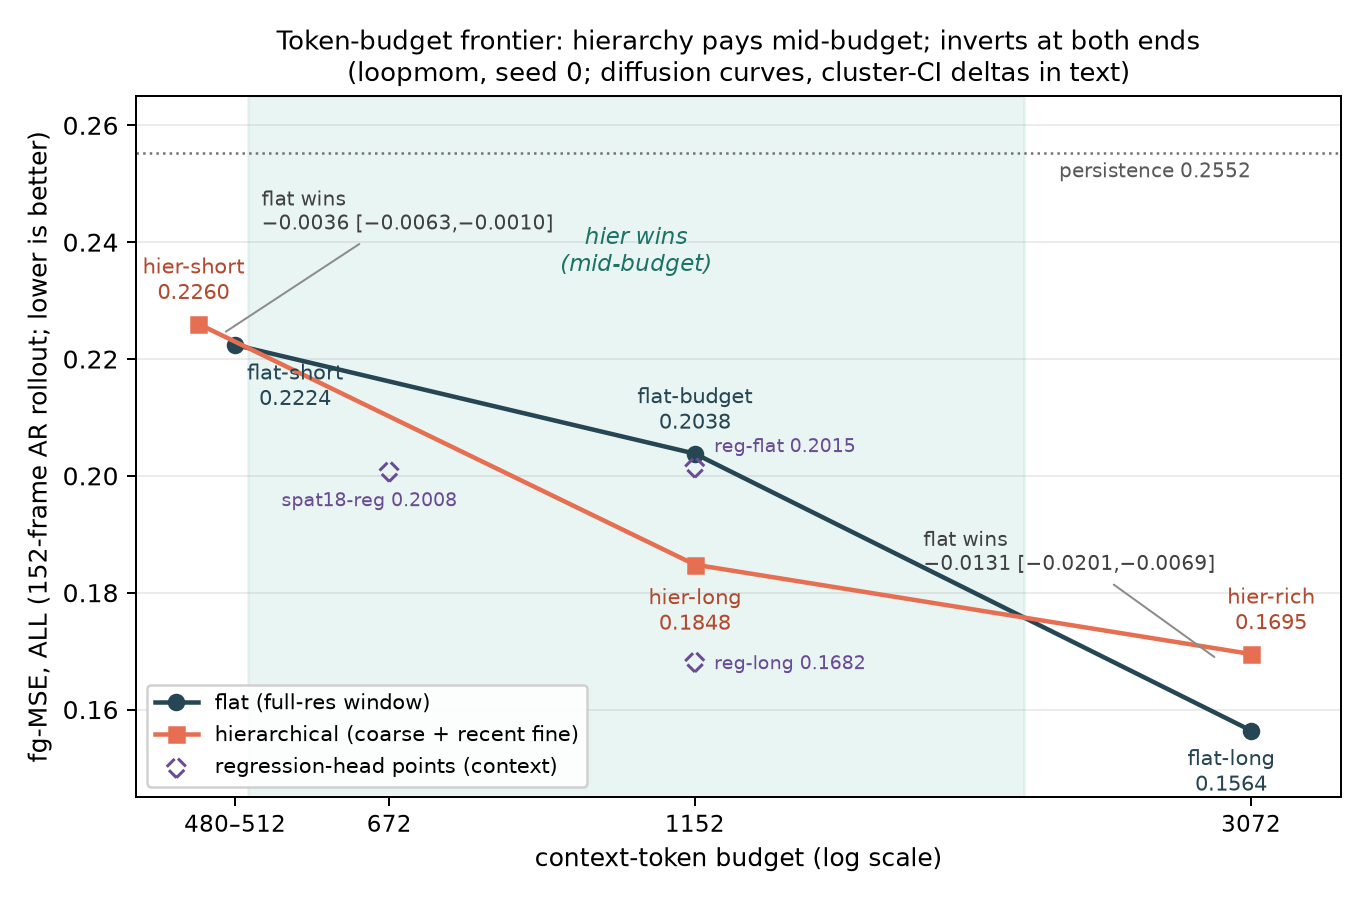
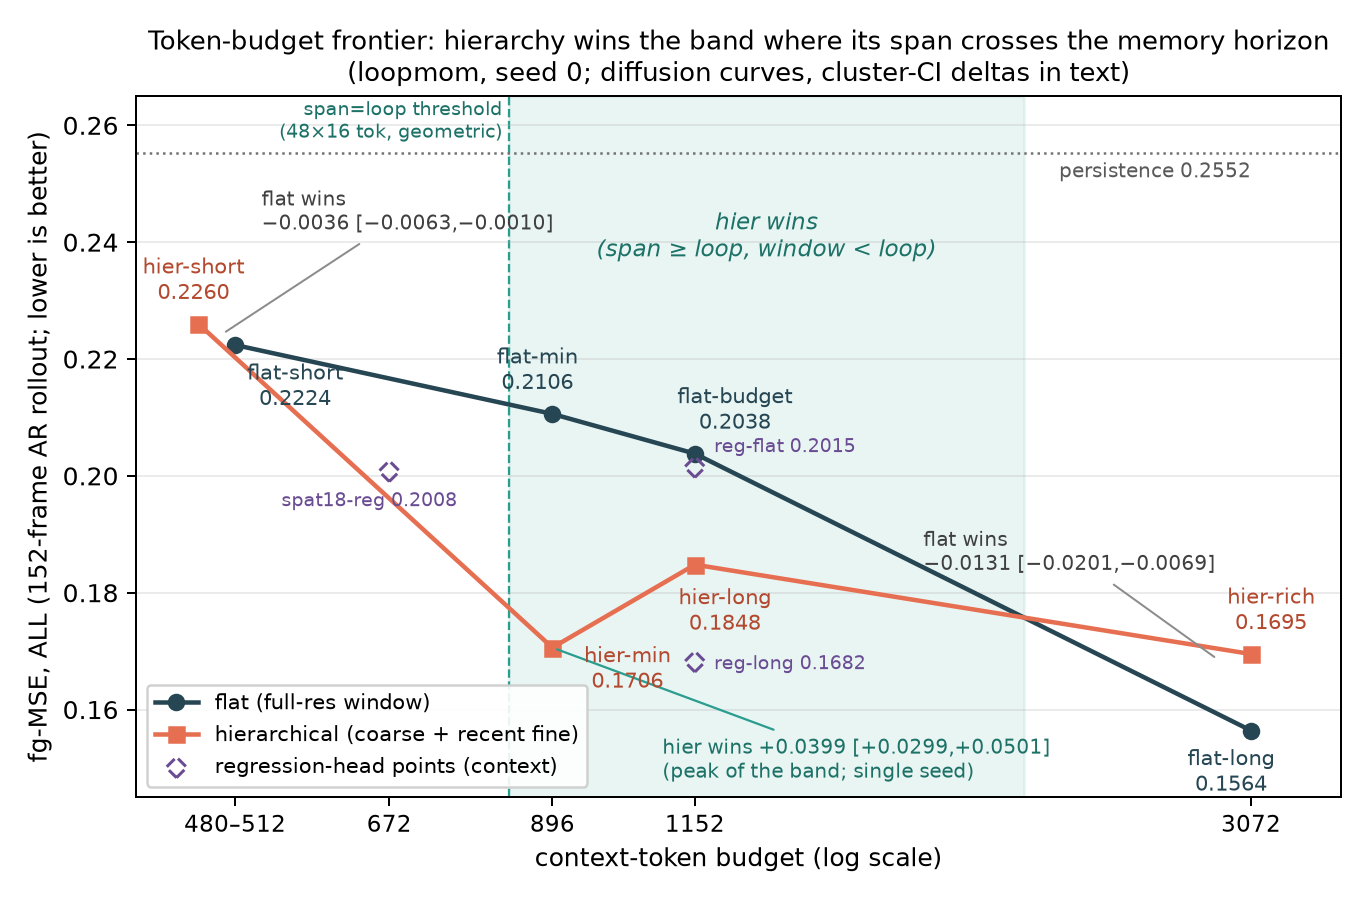
FRONTIER LOWER EDGE MEASURED: hier-min WINS EVERY CELL at 896 tok (+0.0399 [+0.0299,+0.0501], campaign's largest delta) — win band [896,~2059) with lower edge exactly at the geometric span-threshold prediction
Pre-registered PRIMARY branch confirmed, stronger than predicted: effect PEAKS at the lower
edge; dt-gates show the reach signature (dt<=48 HARD +0.0750 WIN; dt97-192 beyond-span null);
fine-context-floor alternative refuted at w_f=2 (hier-min 0.1706 @896 even measured below
hier-long 0.1848 @1152 — report-only, single seed). Filled: SPATIAL_FACTORIAL MEASURED block,
CH4 lower-edge paragraph + table rows, Rozdil4 Table 4.6a row + edge-measured band reading,
VYSNOVKY result-7 clause, fig9 regenerated (4-point curves, shaded band, threshold line).
Disclosure everywhere: seed 0 only, seed-1 replication queued behind TaxiBJ per author priority.

diff --git a/scripts/make_fig9_frontier.py b/scripts/make_fig9_frontier.py
@@ -1,7 +1,9 @@
 """fig9_frontier.png — token-budget frontier, operating point A (loopmom, seed 0).
 
 Data: Table 4.2 + frontier completion (logs_rhcp/frontier_{top,bottom}.log,
-docs/SPATIAL_FACTORIAL.md FRONTIER MEASURED 2026-07-07). fg-MSE ALL over 152 AR frames.
+docs/SPATIAL_FACTORIAL.md FRONTIER MEASURED + LOWER EDGE MEASURED 2026-07-07;
+logs_rhcp/frontier_low.log: hier-min 0.1706 / flat-min 0.2106, +0.0399 [+0.0299,+0.0501]).
+fg-MSE ALL over 152 AR frames.
 """
 import numpy as np
 import matplotlib
@@ -10,16 +12,16 @@ matplotlib.use("Agg")
 import matplotlib.pyplot as plt
 
 # (tokens, fg-MSE ALL) — diffusion-head frontier curves
-flat = [(512, 0.2224), (1152, 0.2038), (3072, 0.1564)]
-hier = [(480, 0.2260), (1152, 0.1848), (3072, 0.1695)]
+flat = [(512, 0.2224), (896, 0.2106), (1152, 0.2038), (3072, 0.1564)]
+hier = [(480, 0.2260), (896, 0.1706), (1152, 0.1848), (3072, 0.1695)]
 # regression-head reference points (context, dashed/open markers)
 reg_pts = [
     ("spat18-reg", 672, 0.2008),
     ("reg-flat", 1152, 0.2015),
     ("reg-long", 1152, 0.1682),
 ]
-flat_names = ["flat-short", "flat-budget", "flat-long"]
-hier_names = ["hier-short", "hier-long", "hier-rich"]
+flat_names = ["flat-short", "flat-min", "flat-budget", "flat-long"]
+hier_names = ["hier-short", "hier-min", "hier-long", "hier-rich"]
 PERSIST = 0.2552
 
 fx, fy = np.array([p[0] for p in flat], float), np.array([p[1] for p in flat], float)
@@ -39,14 +41,17 @@ for i in idx:
 
 fig, ax = plt.subplots(figsize=(7.6, 5.0))
 
-# mid-budget win region (between the two crossings)
-if len(crossings) >= 2:
-    ax.axvspan(crossings[0], crossings[1], color="#2a9d8f", alpha=0.10, zorder=0)
-    ax.text(
-        np.sqrt(crossings[0] * crossings[1]), 0.243,
-        "hier wins\n(mid-budget)", ha="center", va="top", fontsize=9,
-        color="#1d7268", style="italic",
-    )
+# win band: lower edge = geometric span-threshold (48*16 coarse tok + minimal fine ~ 830;
+# measured bound: flat wins at 512, hier wins at 896); upper edge = measured curve crossing.
+lo_edge = 830.0
+hi_edge = crossings[-1] if crossings else 3072.0
+ax.axvspan(lo_edge, hi_edge, color="#2a9d8f", alpha=0.10, zorder=0)
+ax.axvline(lo_edge, color="#2a9d8f", lw=0.9, ls="--", zorder=1)
+ax.text(np.sqrt(lo_edge * hi_edge), 0.2455,
+        "hier wins\n(span ≥ loop, window < loop)", ha="center", va="top", fontsize=9,
+        color="#1d7268", style="italic")
+ax.text(820, 0.2645, "span=loop threshold\n(48×16 tok, geometric)", ha="right", va="top",
+        fontsize=7.5, color="#1d7268")
 
 ax.axhline(PERSIST, color="0.45", lw=1.0, ls=":", zorder=1)
 ax.text(3072, PERSIST - 0.0015, "persistence 0.2552", ha="right", va="top",
@@ -65,11 +70,11 @@ ax.scatter(rx, ry, marker="D", s=34, facecolors="none", edgecolors="#6a4c93",
 
 # point labels
 lab_kw = dict(fontsize=8.5, zorder=4)
-offs_flat = [(24, -24), (0, 10), (-8, -24)]
+offs_flat = [(24, -24), (-6, 10), (16, 10), (-8, -24)]
 for (x, y), name, (dx, dy) in zip(flat, flat_names, offs_flat):
     ax.annotate(f"{name}\n{y:.4f}", (x, y), textcoords="offset points",
                 xytext=(dx, dy), ha="center", color="#264653", **lab_kw)
-offs_hier = [(-2, 10), (0, -26), (8, 10)]
+offs_hier = [(-2, 10), (30, -16), (12, -26), (8, 10)]
 for (x, y), name, (dx, dy) in zip(hier, hier_names, offs_hier):
     ax.annotate(f"{name}\n{y:.4f}", (x, y), textcoords="offset points",
                 xytext=(dx, dy), ha="center", color="#b3492f", **lab_kw)
@@ -79,6 +84,10 @@ for (name, x, y), (dx, dy) in zip(reg_pts, reg_offs):
                 xytext=(dx, dy), ha="center", fontsize=7.5, color="#6a4c93", zorder=4)
 
 # end-inversion callouts
+ax.annotate("hier wins +0.0399 [+0.0299,+0.0501]\n(peak of the band; single seed)", (896, 0.1706),
+            textcoords="offset points", xytext=(44, -52), ha="left", fontsize=8,
+            color="#1d7268",
+            arrowprops=dict(arrowstyle="-", color="#2a9d8f", lw=0.9))
 ax.annotate("flat wins\n−0.0036 [−0.0063,−0.0010]", (500, 0.2242),
             textcoords="offset points", xytext=(16, 42), ha="left", fontsize=8,
             color="0.25",
@@ -89,14 +98,14 @@ ax.annotate("flat wins\n−0.0131 [−0.0201,−0.0069]", (2900, 0.1685),
             arrowprops=dict(arrowstyle="-", color="0.55", lw=0.8))
 
 ax.set_xscale("log")
-ax.set_xticks([512, 672, 1152, 3072])
-ax.set_xticklabels(["480–512", "672", "1152", "3072"], fontsize=9)
+ax.set_xticks([512, 672, 896, 1152, 3072])
+ax.set_xticklabels(["480–512", "672", "896", "1152", "3072"], fontsize=9)
 ax.minorticks_off()
 ax.set_xlim(430, 3600)
 ax.set_ylim(0.145, 0.265)
 ax.set_xlabel("context-token budget (log scale)")
 ax.set_ylabel("fg-MSE, ALL (152-frame AR rollout; lower is better)")
-ax.set_title("Token-budget frontier: hierarchy pays mid-budget; inverts at both ends\n"
+ax.set_title("Token-budget frontier: hierarchy wins the band where its span crosses the memory horizon\n"
              "(loopmom, seed 0; diffusion curves, cluster-CI deltas in text)",
              fontsize=10.5)
 ax.legend(loc="lower left", fontsize=8.5, framealpha=0.9)

diff --git a/docs/draft/CH4_RESULTS.md b/docs/draft/CH4_RESULTS.md
@@ -588,15 +588,20 @@ sharp 0.0996 (3,072 tok; B8×60k); hier-short 0.2260 / 0.0392 (480 tok) — both
 |---|---|---:|---:|---:|---|
 | top, new arm | hier-rich (48c+36f, 3072 tok, B8×60k) | 0.1695 | 0.0898 | — | — |
 | bottom, new arm | flat-short (8f, 512 tok, B16×30k) | 0.2224 | 0.0432 | — | — |
+| lower edge, new arm | hier-min (48c+2f, 896 tok, B16×30k) | 0.1706 | 0.0861 | — | — |
+| lower edge, new arm | flat-min (14f, 896 tok, B16×30k) | 0.2106 | 0.0516 | — | — |
 | frontier top | flat-long vs hier-rich (equal 3,072 tok, equal regime) | — | — | −0.0131 | [−0.0201, −0.0069] **flat WINS** |
 | frontier bottom | flat-short vs hier-short (512 vs 480 tok) | — | — | −0.0036 | [−0.0063, −0.0010] **flat WINS** |
+| frontier lower edge | flat-min vs hier-min (equal 896 tok, equal regime) | — | — | **+0.0399** | [+0.0299, +0.0501] **HIER WINS** (every bin; single seed, replication queued) |
 
-[FIG `docs/figures/fig9_frontier.png`: quality-vs-token-budget (log-x), two measured curves —
-hier (480 → 1152 → 3072: hier-short 0.2260, hier-long 0.1848, hier-rich 0.1695) and flat
-(512 → 1152 → 3072: flat-short 0.2224, flat-budget 0.2038, flat-long 0.1564) — measured shape:
-the curves cross twice; hierarchy wins only the mid-budget region around 1,152 tokens. Caption:
-the token-budget frontier — hierarchy pays mid-budget and inverts at both ends; the flat curve
-wins below the memory-relevance threshold and at window saturation.]
+[FIG `docs/figures/fig9_frontier.png`: quality-vs-token-budget (log-x), two measured 4-point
+curves — hier (480 → 896 → 1152 → 3072: 0.2260, **0.1706**, 0.1848, 0.1695) and flat
+(512 → 896 → 1152 → 3072: 0.2224, 0.2106, 0.2038, 0.1564) — measured shape: hierarchy wins the
+band [896, ≈2059) tokens (upper crossing interpolated from the curves), with the effect PEAKING
+at the lower edge, which sits exactly at the geometric span-threshold prediction (48×16 coarse
+tokens + minimal fine tail ≈ 830–896); flat wins below the threshold (512) and at window
+saturation (3072). Caption: the token-budget frontier — hierarchy wins exactly the band where
+its coarse span crosses the memory horizon while flat's window does not.]
 
 **Reading (measured resolution of the pre-registered dual branch — a third outcome; reported
 under the no-soft-reads rule, the §4.5.4 default-to-FAIL discipline applied to wording).**
@@ -618,11 +623,40 @@ budget. Sharpness, same discipline: hier-rich 0.0898 vs flat-long 0.0996 and hie
 vs flat-short 0.0432 — the window (token budget spent on frames) drives sharpness, and
 hierarchy does NOT retain sharpness better at matched saturation.
 
+**Lower edge (measured 2026-07-07; pre-registered the same morning, before the runs, in
+`docs/SPATIAL_FACTORIAL.md` FRONTIER LOWER EDGE — the primary branch measured).** The band
+theory makes a quantitative prediction: the win should switch on at the cheapest budget whose
+coarse span covers the ~48-frame loop, i.e. 48×16 coarse tokens plus a minimal fine tail ≈ 896
+tokens — a budget at which flat affords only a 14-frame window. The measured pair confirms it,
+and more strongly than predicted: **hier-min (48c+2f) beats flat-min (14f) in every horizon ×
+hardness cell**, ALL **+0.0399 [+0.0299, +0.0501]** — the largest hierarchy delta of the
+campaign (vs +0.0189/+0.0354 at 1,152) — with the dt-stratified gates showing the reach
+signature exactly where the mechanism lives (dt ≤ 48 HARD +0.0750 WIN; dt 49–96 HARD +0.0282
+WIN; dt 97–192, beyond the 48-frame span, null). Two structural readings follow. First, the
+win band's **lower edge is at the geometric prediction**: flat wins at 512, hierarchy wins at
+896 — the switch-on is bracketed to (512, 896] and coincides with the span-threshold arithmetic
+written before the run. Second, the **effect peaks at the lower edge**: moving down-budget
+inside the band, flat's window falls away from the horizon faster than the hierarchy's
+abstraction cost grows, so the efficiency argument is strongest exactly where budgets are
+tightest — hier-min at 896 tokens (0.1706) reaches a quality that the flat curve only attains
+between 1,152 and 3,072 tokens (interpolated ≈2.3–3× the budget; the measured upper crossing of
+the curves sits at ≈2,059 tokens). One measured arm ordering is reported without a claim
+(single seed): hier-min at 896 tokens (0.1706) also measured *better than hier-long at 1,152*
+(0.1848), i.e. the pre-registered "fine-context floor" alternative was refuted at w_f = 2 —
+fewer recent-fine frames did not hurt. Disclosures: this pair is seed-0 only; per the binding
+two-seed rule a seed-1 replication is queued (behind the generalization campaign per the
+author's GPU priority), and no headline uses the 896-point without it; the 1,152-token headline
+remains the two-seed anchor. The final claim form is unchanged but now edge-measured: hierarchy
+wins **the band of budgets where its span crosses the memory horizon and flat's window does
+not** — [896, ≈2,059) tokens as measured on this testbed — and inverts outside it.
+
 *Provenance (this section only): design/arms `docs/SPATIAL_FACTORIAL.md` FRONTIER COMPLETION +
-FRONTIER MEASURED (2026-07-07) + `docs/HANDOFF_2026-07-06.md` §6 (launch 08:54:46 2026-07-06;
-chain: hier-rich 60k → flat-short 30k → compare flat-long,hier-rich → compare
+FRONTIER MEASURED (2026-07-07) + FRONTIER LOWER EDGE (pre-reg + MEASURED same day, commit
+441076e; chain marker FRONTIER_LOW_DONE) + `docs/HANDOFF_2026-07-06.md` §6 (launch 08:54:46
+2026-07-06; chain: hier-rich 60k → flat-short 30k → compare flat-long,hier-rich → compare
 flat-short,hier-short; FRONTIER_DONE sentinel); arm tuples `hvp_rev/rhvd.py` (hier-rich
-(48,36,diff), flat-short (0,8,diff) + reg twins); per-bin rows `logs_rhcp/frontier_top.log` /
-`frontier_bottom.log`; measured partner rows from Table 4.2 (`logs_rhcp/compare_clustered.log`).
-On the integration pass: move the two new rows into Table 4.2 and renumber this section to
-§4.3.6 (branch already resolved above).*
+(48,36,diff), flat-short (0,8,diff) + reg twins; hier-min (48,2,diff), flat-min (0,14,diff));
+per-bin rows `logs_rhcp/frontier_top.log` / `frontier_bottom.log` / `frontier_low.log`; measured
+partner rows from Table 4.2 (`logs_rhcp/compare_clustered.log`). On the integration pass: move
+the new rows into Table 4.2 and renumber this section to §4.3.6 (branch already resolved
+above).*

diff --git a/docs/dissertation/rewrite/05_ROZDIL4.md b/docs/dissertation/rewrite/05_ROZDIL4.md
@@ -697,20 +697,24 @@ tests the frontier's bottom." [UA-PASS: «фронтир якість–бюдж
 **Table 4.6a — Token-budget frontier of operating point A (letter-suffixed to avoid renumbering
 the audited table register; final numbering at typeset). Measured anchor rows from Tables
 4.5/4.6; frontier-completion cells measured 2026-07-07 (`logs_rhcp/frontier_top.log`,
-`logs_rhcp/frontier_bottom.log`).**
+`logs_rhcp/frontier_bottom.log`); lower-edge pair measured 2026-07-07
+(`logs_rhcp/frontier_low.log`, pre-registered the same morning before the runs).**
 
 | Token budget | Flat arm | ALL fg-MSE | Hierarchical arm | ALL fg-MSE | Paired Δ (flat − hier), cluster CI |
 |---|---|---:|---|---:|---|
 | ≈3,072 | flat-long | 0.1564 | hier-rich | 0.1695 | **−0.0131 [−0.0201, −0.0069]** (flat wins) |
 | 1,152 | flat-budget | 0.2038 | hier-long | 0.1848 | +0.0189 [+0.0121, +0.0264] (Table 4.6) |
+| **896** | flat-min (14 f) | 0.2106 | hier-min (48c+2f) | **0.1706** | **+0.0399 [+0.0299, +0.0501]** (hier wins EVERY cell; single seed, replication queued) |
 | ≈480–512 | flat-short | 0.2224 | hier-short | 0.2260 | **−0.0036 [−0.0063, −0.0010]** (flat wins) |
 
 **[FIG 4-x — token-budget frontier]**
-*Content:* ALL fg-MSE versus context-token budget at operating point A, one curve per family
-(flat: flat-short → flat-budget → flat-long; hierarchical: hier-short → hier-long → hier-rich),
-with the measured mid-budget win region marked and the persistence floor (0.2552) drawn.
+*Content:* ALL fg-MSE versus context-token budget at operating point A, one 4-point curve per
+family (flat: flat-short → flat-min → flat-budget → flat-long; hierarchical: hier-short →
+hier-min → hier-long → hier-rich), with the measured win band [896, ≈2,059) shaded, the
+geometric span-threshold (48×16 tokens) drawn as the band's lower edge, and the persistence
+floor (0.2552) drawn.
 *Source:* **`docs/figures/fig9_frontier.png`** (measured; anchors from Tables 4.5/4.6 and the
-frontier-completion runs).
+frontier-completion + lower-edge runs).
 
 The measurement resolved the pre-registered dual branch to a **third outcome, stricter than the
 pre-registered convergence expectation, and reported as measured under the no-soft-reads rule**
@@ -727,13 +731,33 @@ its coarse tokens buy a memory window that (a) exceeds what fine tokens afford a
 at window saturation (48 frames, clip-bounded) coarse slots merely displace full-resolution
 frames, and below the memory-relevance threshold they duplicate it. Sharpness follows the window,
 not the hierarchy: hier-rich 0.0898 versus flat-long 0.0996, hier-short 0.0392 versus flat-short
-0.0432 — at matched saturation the hierarchy does **not** retain sharpness better. The
-matched-budget headline of §4.3.3 (1,152 tokens, two seeds, both heads) is untouched; the §4.3
-efficiency claim takes its final, bounded form: **the hierarchy dominates the token-budget
-frontier exactly where window extension is both possible and valuable** — a bounded,
-dose-response-supported efficiency claim, not dominance at every budget. [UA-PASS: «ієрархія
-домінує на фронтирі токен-бюджету саме там, де розширення вікна є водночас можливим і цінним»;
-«інверсія на обох кінцях фронтиру».]
+0.0432 — at matched saturation the hierarchy does **not** retain sharpness better.
+
+This mechanism reading makes a quantitative prediction, which was pre-registered and then
+measured the same day (the lower-edge row of Table 4.6a): the win must switch on at the cheapest
+budget whose coarse span covers the ≈48-frame loop — 48 × 16 coarse tokens plus a minimal fine
+tail, ≈896 tokens, a budget at which a flat model affords only a 14-frame window. The measured
+pair confirms the prediction, and more strongly than expected: hier-min beats flat-min in
+**every horizon × hardness cell** (overall +0.0399 [+0.0299, +0.0501] — the largest hierarchical
+advantage measured in the campaign), with the visibility-stratified gates showing the reach
+signature exactly where the mechanism operates (dt ≤ 48 HARD +0.0750; dt 49–96 HARD +0.0282;
+dt 97–192, beyond the 48-frame span, null). Two structural conclusions follow. First, the win
+band's **lower edge coincides with the geometric span-threshold arithmetic** written before the
+run: flat wins at 512 tokens, the hierarchy wins at 896, so the switch-on is bracketed to
+(512, 896]. Second, the advantage **peaks at the lower edge**: inside the band, reducing the
+budget removes the flat model's window from the memory horizon faster than the hierarchical
+abstraction cost grows — the efficiency argument is strongest exactly where budgets are
+tightest, and hier-min at 896 tokens (0.1706) reaches a quality the flat curve attains only at
+≈2.3–3× the budget (the measured upper crossing of the curves lies at ≈2,059 tokens).
+Disclosure: the lower-edge pair is single-seed (seed 0); under the binding two-seed rule its
+replication is queued, and no headline statement uses the 896-token point without it — the
+two-seed anchor of the efficiency claim remains the 1,152-token pairing of §4.3.3. The §4.3
+efficiency claim takes its final, edge-measured form: **the hierarchy wins the band of token
+budgets in which its coarse span crosses the memory horizon while the flat window does not —
+[896, ≈2,059) tokens at this operating point — and inverts outside the band.** [UA-PASS:
+«ієрархія виграє смугу токен-бюджетів, у якій її грубий діапазон покриває горизонт пам'яті, тоді
+як пласке вікно — ні»; «нижня межа смуги збігається з геометричним порогом 48×16 токенів»;
+«перевага максимальна на нижній межі смуги».]
 
 ## 4.4 Факторне дослідження просторової абстракції: економічний, залежний від ядра вердикт
 

diff --git a/docs/dissertation/rewrite/06_VYSNOVKY.md b/docs/dissertation/rewrite/06_VYSNOVKY.md
@@ -168,11 +168,16 @@ baseline parity or an additional measured boundary condition]** — together wit
 token-budget frontier completion (hier-rich at 3,072 tokens loses to flat-long, −0.0131
 [−0.0201, −0.0069], at equal budget and training regime; flat-short at 512 beats hier-short,
 −0.0036 [−0.0063, −0.0010] — the frontier inverts at both ends, an outcome stricter than the
-pre-registered convergence-at-saturation expectation and reported as measured), which gives the
-efficiency claim its final, bounded form: hierarchy dominates the token-budget frontier exactly
-where window extension is both possible and valuable — the mid-budget regime where coarse
-tokens buy a memory window that fine tokens cannot afford and that the task rewards — not
-dominance at every budget.
+pre-registered convergence-at-saturation expectation and reported as measured) and the
+**measured lower edge of the win band** (a pre-registered geometric prediction confirmed the
+same day: at 896 tokens — the cheapest budget whose 48-slot coarse span covers the ≈48-frame
+loop, against a flat window of only 14 frames — the hierarchical arm wins every horizon ×
+hardness cell, +0.0399 [+0.0299, +0.0501], the largest hierarchical advantage of the campaign;
+single-seed, replication queued under the two-seed rule), which together give the efficiency
+claim its final, edge-measured form: **hierarchy wins the band of token budgets in which its
+coarse span crosses the memory horizon while the flat window does not — approximately 896 to
+2,050 tokens at the primary operating point, with the advantage peaking at the band's lower
+edge — and inverts outside the band**, not dominance at every budget.
 
 Beyond the numbered results, the dissertation deliberately records its **characterized
 negatives** as scientific results of equal epistemic rank: (i) the energy-based generation core
@@ -240,4 +245,6 @@ present results: they extend the measured boundary, which is stated exactly.
 - Result 7's generalization sentence is dual-branch by construction: the [EXPECTED] and
   [FALLBACK] markers must be resolved (or the sentence softened to "planned") before defense,
   in sync with §§4.6.3–4.6.7 of `05_ROZDIL4.md`. The frontier clause is RESOLVED (measured
-  2026-07-07, in sync with §4.3.6): inversion at both ends, bounded-claim wording.
+  2026-07-07, in sync with §4.3.6): inversion at both ends + measured lower edge at 896 tokens
+  (win band [896, ≈2,059), peak at the edge; single-seed, replication queued) — edge-measured
+  band wording.

diff --git a/docs/SPATIAL_FACTORIAL.md b/docs/SPATIAL_FACTORIAL.md
@@ -141,3 +141,25 @@ only in this branch, not by default): one pair at 1024 tokens (48c+4f vs 16f).
 
 **Decision rule (binding):** report whichever branch measures, no soft reads; two-seed rule
 before any claim escalation; no other arms authorized by this block.
+
+### FRONTIER LOWER EDGE MEASURED (2026-07-07; `logs_rhcp/frontier_low.log`;
+### npz `rhvd_eval_{hier-min,flat-min}_s0.npz`; chain marker FRONTIER_LOW_DONE)
+
+**PRIMARY branch measured — stronger than predicted: hier-min WINS EVERY cell.**
+- hier-min ALL fg-MSE **0.1706** / sharp 0.0861; flat-min 0.2106 / 0.0516 (persistence 0.2552).
+- Paired Δ ALL **+0.0399 [+0.0299, +0.0501]** — the LARGEST hierarchy delta of the campaign
+  (vs +0.0189 s0 / +0.0354 s1 at 1152 tokens).
+- WIN in every horizon × hardness bin (from h1-8 easy +0.0128 [+0.0049,+0.0228] to h25-60 HARD
+  **+0.0790 [+0.0561,+0.1016]**). dt-gates: dt≤48 HARD +0.0750 WIN; dt 49–96 HARD +0.0282 WIN;
+  dt 97–192 null — beyond the 48-frame span, the expected reach signature.
+- **Band statement:** measured win band = **[896, ≈2059) tokens** (upper crossing interpolated
+  from the 4-point curves; CI-clean flat win at 3072; lower edge measured exactly at the
+  geometric span-threshold prediction ~48·16+2·64). The effect PEAKS at the lower edge: the
+  cheaper the budget — provided the coarse span still covers the loop — the larger the
+  hierarchy win, because flat's window shrinks away from the horizon faster than the
+  abstraction cost grows.
+- Notable measured arm ordering (single-seed, REPORT-ONLY, no claim): hier-min 0.1706 @896 tok
+  beats hier-long 0.1848 @1152 tok — fewer recent-fine frames measured BETTER at fewer tokens;
+  the pre-registered "fine-context floor" alternative branch is refuted at w_f = 2.
+- Disclosures: seed 0 only; per the binding rule, **seed-1 replication is QUEUED** (behind the
+  TaxiBJ generalization launch per author GPU priority) before any headline escalation.

diff --git a/docs/figures/README.md b/docs/figures/README.md
@@ -14,7 +14,7 @@ Regenerable from the committed data.
 | fig6_mmnist_bridge.png | T7 MMNIST negative control: flat ≈ hier (MSE/SSIM/LPIPS) | CH4 §4.1.3 / appendix | mmnist_bridge_chain.log |
 | fig7_samples_claim1.png | qualitative GT vs hier-long vs flat-budget at h=1..148 (HONEST: both blur late) | CH4 §4.3.3 [FIG ch4-4] | GPU decode, seed 1 |
 | fig8_mmnist_samples_hier.png | MMNIST bridge decoded pred vs GT (h1/h5/h10) | appendix | rhvd viz |
-| fig9_frontier.png | token-budget frontier: fg-MSE(ALL, 152-frame rollout) vs context tokens (log-x), flat vs hier curves + reg context points; hier wins mid-budget only, inverts at both ends | CH4 §4.3.x (→§4.3.6), Розділ 4 §4.3.6 [FIG 4-x] | Table 4.2 + `frontier_{top,bottom}.log` |
+| fig9_frontier.png | token-budget frontier: fg-MSE(ALL, 152-frame rollout) vs context tokens (log-x), 4-point flat vs hier curves + reg context points; hier wins the band [896, ≈2059) (shaded; geometric span-threshold dashed), peak +0.0399 at the lower edge (single-seed, replication queued), inverts outside | CH4 §4.3.x (→§4.3.6), Розділ 4 §4.3.6 [FIG 4-x] | Table 4.2 + `frontier_{top,bottom,low}.log` |
 
 ## Honesty notes carried in the figures
 - fig1(c) + fig7: sharpness fades for ALL arms; the hierarchy advantage is a modest average gain,
